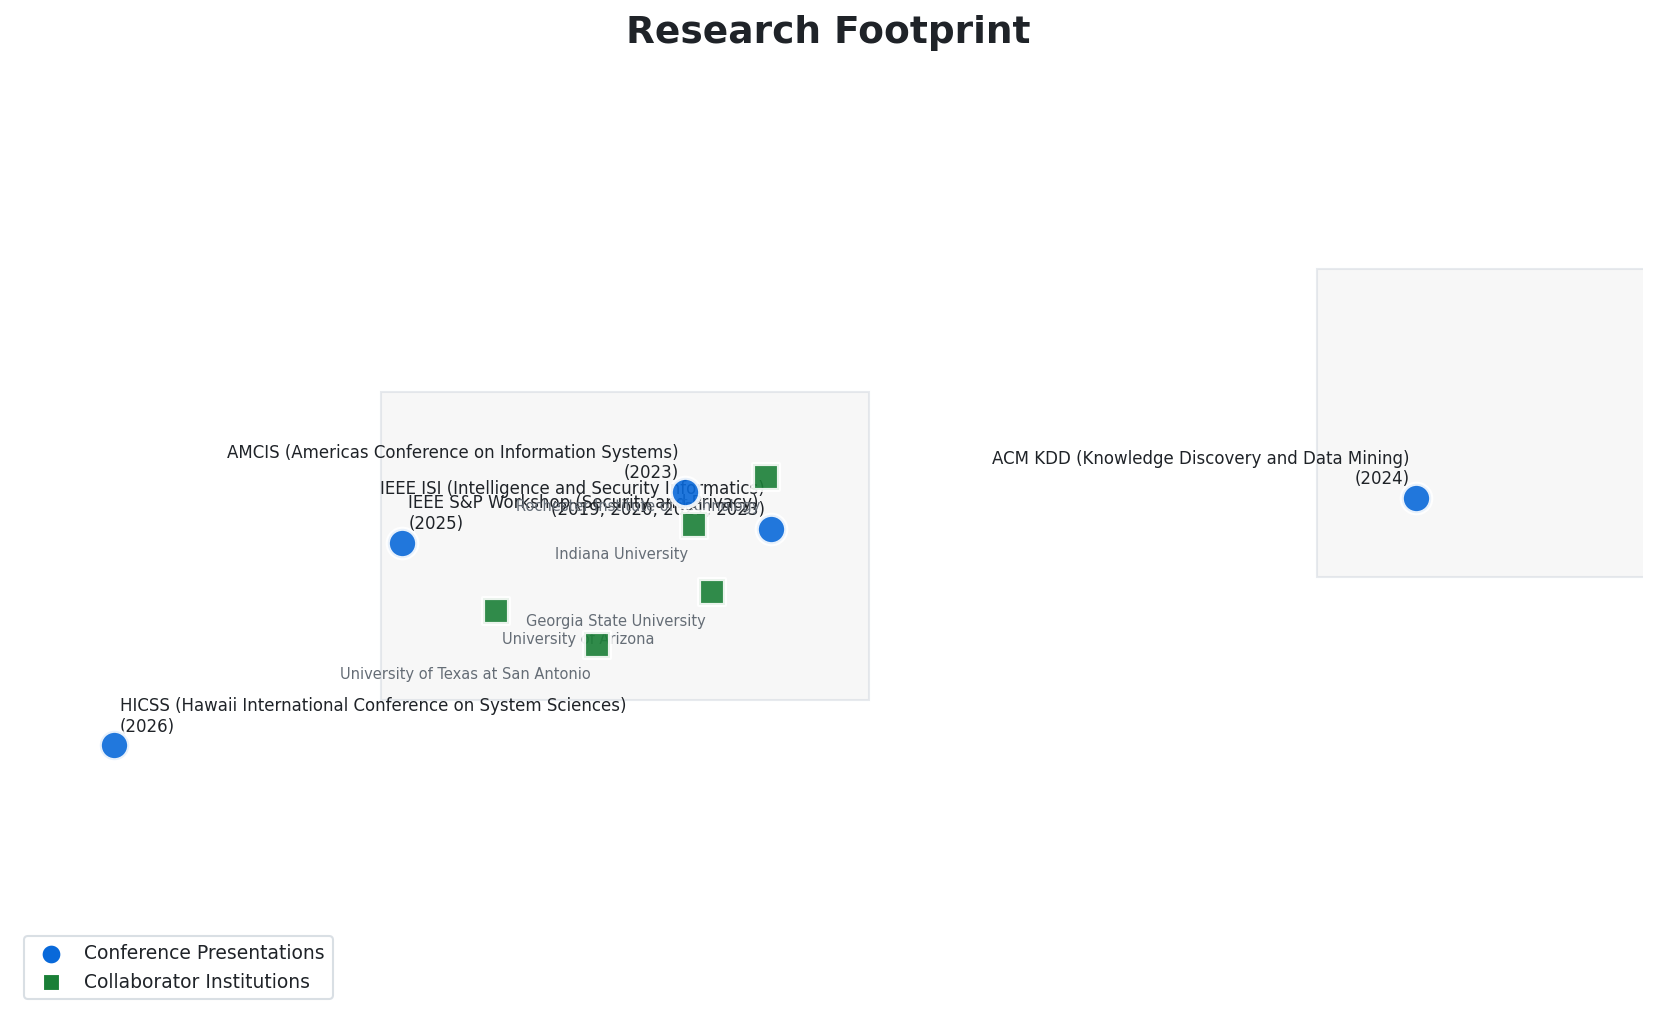
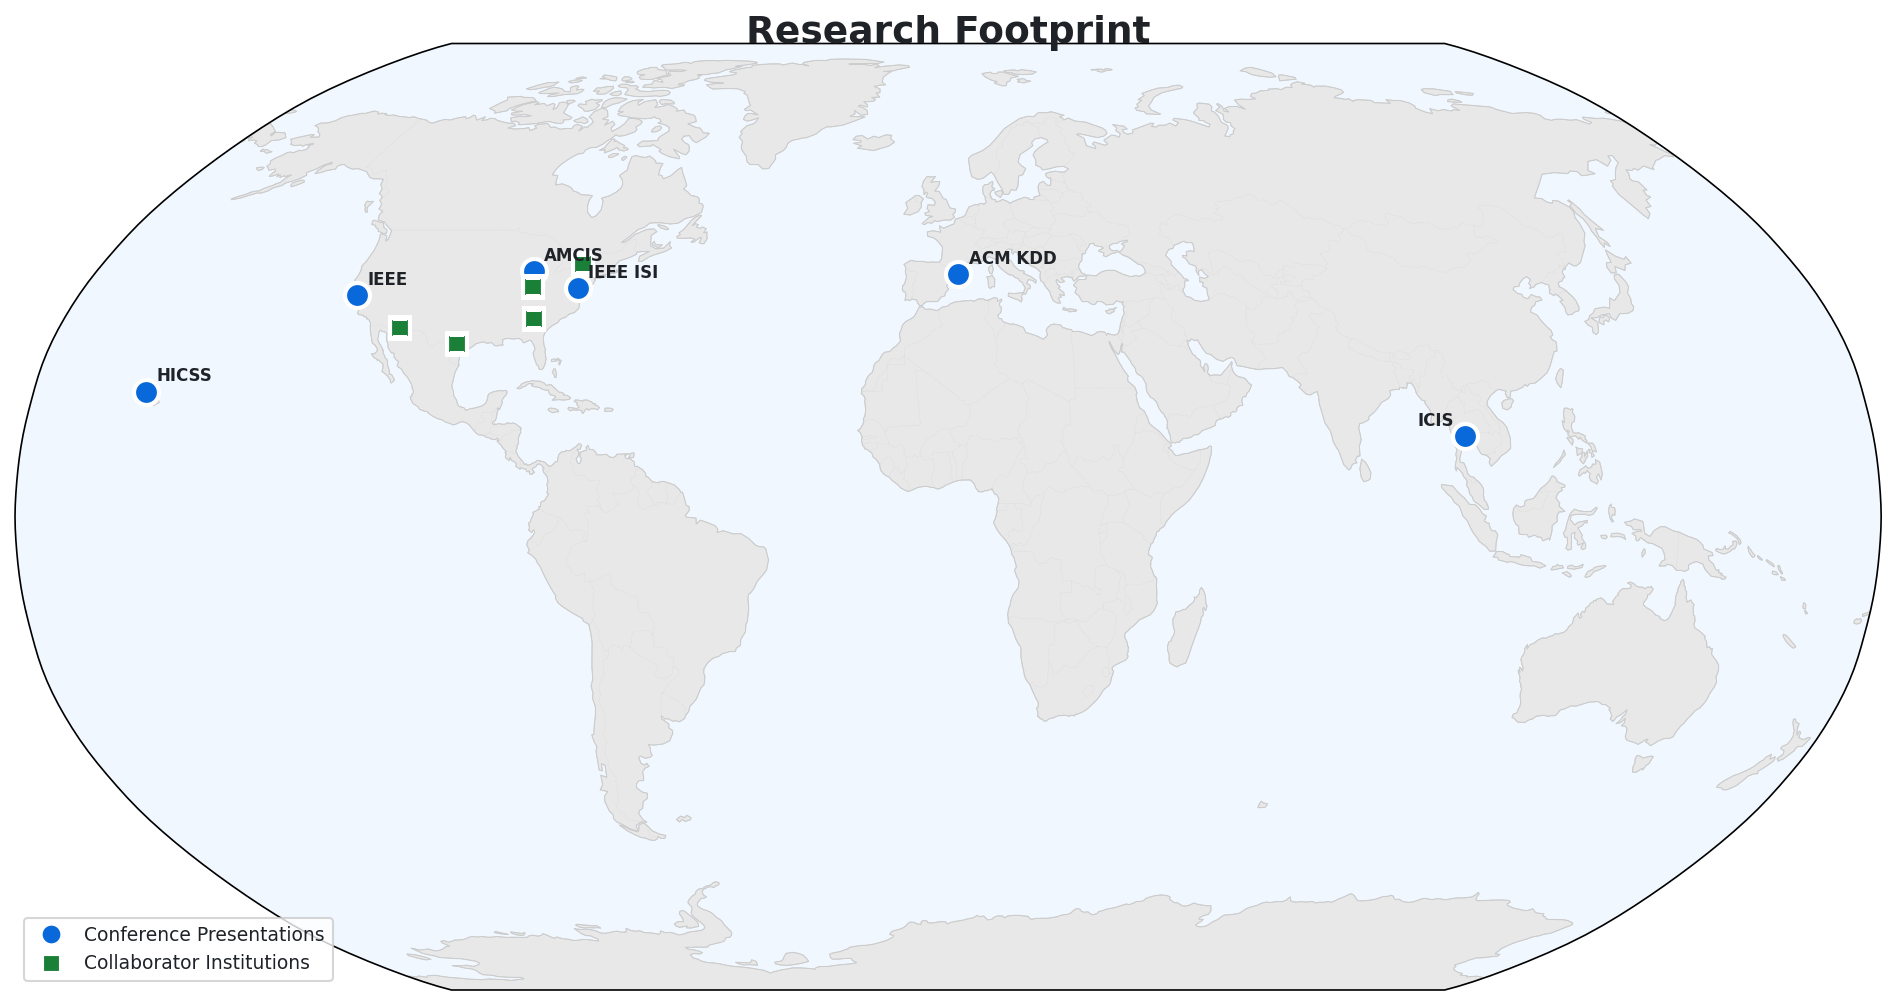
Regenerate research map with proper world map using cartopy

diff --git a/scripts/generate_map.py b/scripts/generate_map.py
@@ -17,6 +17,14 @@ import matplotlib.patches as mpatches
 import numpy as np
 from pathlib import Path
 
+try:
+    import cartopy.crs as ccrs
+    import cartopy.feature as cfeature
+    HAS_CARTOPY = True
+except ImportError:
+    HAS_CARTOPY = False
+    print("Warning: cartopy not installed. Run: pip install cartopy")
+
 SCRIPT_DIR = Path(__file__).parent
 PROJECT_ROOT = SCRIPT_DIR.parent
 LOCATIONS_FILE = PROJECT_ROOT / "static" / "data" / "locations.json"
@@ -30,119 +38,135 @@ def load_locations():
 
 
 def draw_map(dark_mode=False):
-    """Generate the map visualization using basic matplotlib."""
+    """Generate the map visualization using cartopy."""
+    if not HAS_CARTOPY:
+        print("Cartopy required for map generation")
+        return None
+        
     data = load_locations()
     
     # Colors
     if dark_mode:
         bg_color = '#0d1117'
+        land_color = '#21262d'
+        ocean_color = '#0d1117'
+        border_color = '#30363d'
         text_color = '#e6edf3'
         presentation_color = '#58a6ff'
         collaborator_color = '#3fb950'
-        land_color = '#21262d'
-        border_color = '#30363d'
         muted_color = '#8b949e'
     else:
         bg_color = '#ffffff'
+        land_color = '#e8e8e8'
+        ocean_color = '#f0f7ff'
+        border_color = '#cccccc'
         text_color = '#1f2328'
         presentation_color = '#0969da'
         collaborator_color = '#1a7f37'
-        land_color = '#f0f0f0'
-        border_color = '#d0d7de'
         muted_color = '#656d76'
     
-    fig, ax = plt.subplots(figsize=(14, 8), facecolor=bg_color)
-    ax.set_facecolor(bg_color)
+    # Create figure with Robinson projection (good for world maps)
+    fig = plt.figure(figsize=(14, 7), facecolor=bg_color)
+    ax = fig.add_subplot(1, 1, 1, projection=ccrs.Robinson())
+    ax.set_facecolor(ocean_color)
     
-    # Simple world map background (rough outline)
-    # US bounding box approximate
-    ax.set_xlim(-170, 30)
-    ax.set_ylim(0, 75)
+    # Set global extent
+    ax.set_global()
     
-    # Draw a simple representation
-    ax.fill([-125, -125, -65, -65, -125], [25, 50, 50, 25, 25], 
-            color=land_color, alpha=0.5, edgecolor=border_color, linewidth=1)
-    
-    # Europe rough
-    ax.fill([-10, -10, 40, 40, -10], [35, 60, 60, 35, 35], 
-            color=land_color, alpha=0.5, edgecolor=border_color, linewidth=1)
-    
-    # Asia rough (for Thailand)
-    ax.fill([90, 90, 110, 110, 90], [5, 25, 25, 5, 5], 
-            color=land_color, alpha=0.5, edgecolor=border_color, linewidth=1)
+    # Add map features
+    ax.add_feature(cfeature.LAND, facecolor=land_color, edgecolor=border_color, linewidth=0.5)
+    ax.add_feature(cfeature.COASTLINE, linewidth=0.3, edgecolor=border_color)
+    ax.add_feature(cfeature.BORDERS, linewidth=0.2, edgecolor=border_color, linestyle=':')
     
     # Plot presentation venues
     for loc in data['presentations']:
-        ax.scatter(loc['lng'], loc['lat'], s=200, c=presentation_color, 
-                  edgecolors='white', linewidths=2, zorder=5, alpha=0.9)
+        ax.plot(loc['lng'], loc['lat'], 
+                marker='o', markersize=12, 
+                color=presentation_color, 
+                markeredgecolor='white', markeredgewidth=2,
+                transform=ccrs.PlateCarree(), zorder=5)
         
-        # Label
-        offset_x = 3 if loc['lng'] < -100 else -3
-        ha = 'left' if loc['lng'] < -100 else 'right'
-        ax.annotate(f"{loc['name']}\n({', '.join(loc['years'])})", 
-                   (loc['lng'], loc['lat']),
-                   xytext=(offset_x, 5), textcoords='offset points',
-                   fontsize=8, color=text_color, ha=ha, va='bottom',
-                   fontweight='medium')
+        # Add label with offset
+        label = loc['name'].split('(')[0].strip()  # Get short name
+        if len(label) > 10:
+            label = loc['name'].split()[0]  # Just first word for long names
+        
+        # Determine label position based on location
+        offset_x = 5
+        ha = 'left'
+        if loc['lng'] > 50:  # Asia
+            offset_x = -5
+            ha = 'right'
+            
+        ax.annotate(label, 
+                   xy=(loc['lng'], loc['lat']),
+                   xytext=(offset_x, 5),
+                   textcoords='offset points',
+                   fontsize=8, fontweight='bold',
+                   color=text_color, ha=ha,
+                   transform=ccrs.PlateCarree(),
+                   zorder=6)
     
     # Plot collaborator institutions
     for loc in data['collaborators']:
-        ax.scatter(loc['lng'], loc['lat'], s=150, c=collaborator_color,
-                  edgecolors='white', linewidths=2, zorder=5, alpha=0.9,
-                  marker='s')
-        
-        # Label
-        offset_x = 3 if loc['lng'] < -100 else -3
-        ha = 'left' if loc['lng'] < -100 else 'right'
-        ax.annotate(f"{loc['institution']}", 
-                   (loc['lng'], loc['lat']),
-                   xytext=(offset_x, -10), textcoords='offset points',
-                   fontsize=7, color=muted_color, ha=ha, va='top')
+        ax.plot(loc['lng'], loc['lat'], 
+                marker='s', markersize=10,
+                color=collaborator_color,
+                markeredgecolor='white', markeredgewidth=2,
+                transform=ccrs.PlateCarree(), zorder=5)
     
     # Title
-    ax.set_title('Research Footprint', fontsize=18, fontweight='bold',
-                color=text_color, pad=20)
+    fig.suptitle('Research Footprint', fontsize=18, fontweight='bold',
+                 color=text_color, y=0.95)
     
     # Legend
     legend_elements = [
-        plt.scatter([], [], s=100, c=presentation_color, edgecolors='white', 
-                   linewidths=1.5, label='Conference Presentations'),
-        plt.scatter([], [], s=80, c=collaborator_color, edgecolors='white',
-                   linewidths=1.5, marker='s', label='Collaborator Institutions'),
+        plt.Line2D([0], [0], marker='o', color='w', markerfacecolor=presentation_color,
+                   markersize=10, markeredgecolor='white', markeredgewidth=1.5,
+                   label='Conference Presentations'),
+        plt.Line2D([0], [0], marker='s', color='w', markerfacecolor=collaborator_color,
+                   markersize=9, markeredgecolor='white', markeredgewidth=1.5,
+                   label='Collaborator Institutions'),
     ]
+    
     legend = ax.legend(handles=legend_elements, loc='lower left', 
-                       frameon=True, fontsize=9)
-    legend.get_frame().set_facecolor(bg_color)
-    legend.get_frame().set_edgecolor(border_color)
+                       frameon=True, fontsize=9, facecolor=bg_color,
+                       edgecolor=border_color)
     for text in legend.get_texts():
         text.set_color(text_color)
     
-    ax.axis('off')
+    plt.tight_layout()
     
     return fig
 
 
 def main():
     """Generate both light and dark mode map images."""
+    if not HAS_CARTOPY:
+        print("Error: cartopy is required. Install with: pip install cartopy")
+        return
+        
     OUTPUT_DIR.mkdir(parents=True, exist_ok=True)
     
     # Generate light mode
     print("Generating light mode map...")
     fig_light = draw_map(dark_mode=False)
-    light_path = OUTPUT_DIR / 'research-map.png'
-    fig_light.savefig(light_path, dpi=150, bbox_inches='tight', 
-                      facecolor='white', edgecolor='none')
-    plt.close(fig_light)
-    print(f"  Saved: {light_path}")
+    if fig_light:
+        light_path = OUTPUT_DIR / 'research-map.png'
+        fig_light.savefig(light_path, dpi=150, bbox_inches='tight', 
+                          facecolor='white', edgecolor='none')
+        plt.close(fig_light)
+        print(f"  Saved: {light_path}")
     
     # Generate dark mode
     print("Generating dark mode map...")
     fig_dark = draw_map(dark_mode=True)
-    dark_path = OUTPUT_DIR / 'research-map-dark.png'
-    fig_dark.savefig(dark_path, dpi=150, bbox_inches='tight', 
-                     facecolor='#0d1117', edgecolor='none')
-    plt.close(fig_dark)
-    print(f"  Saved: {dark_path}")
+    if fig_dark:
+        dark_path = OUTPUT_DIR / 'research-map-dark.png'
+        fig_dark.savefig(dark_path, dpi=150, bbox_inches='tight', 
+                         facecolor='#0d1117', edgecolor='none')
+        plt.close(fig_dark)
+        print(f"  Saved: {dark_path}")
     
     print("\nDone! Map images generated successfully.")
 
